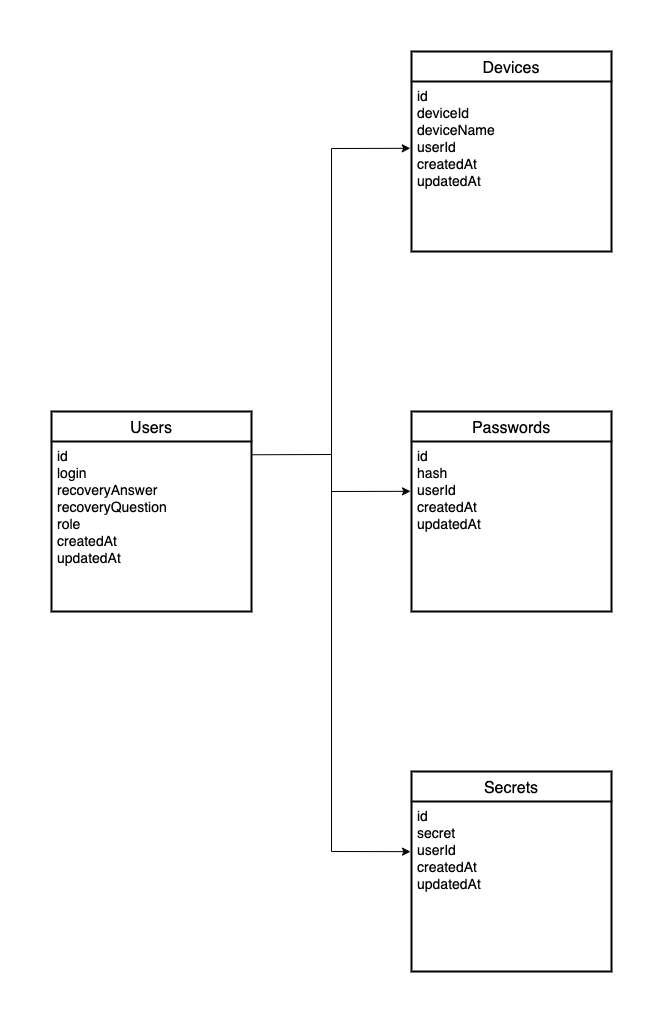
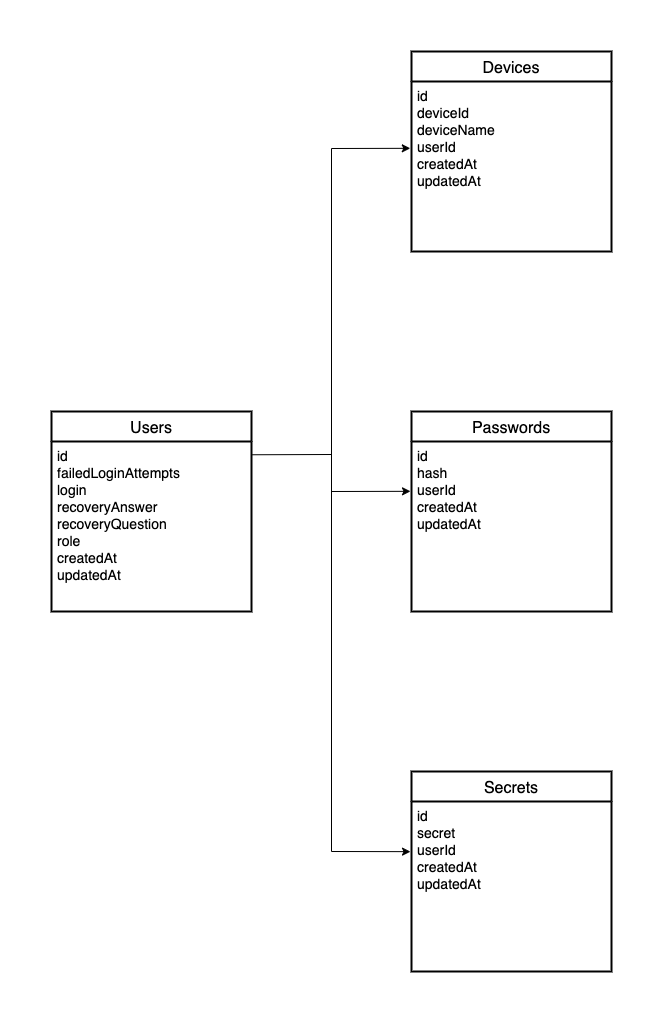
Adjust the database & migrations

Changed region(s): [[0.0906, 0.455, 0.2719, 0.5763]]

diff --git a/database/migrations/20221022192321-create-users-table.js b/database/migrations/20221022192321-create-users-table.js
@@ -14,6 +14,10 @@ module.exports = {
           defaultValue: Sequelize.fn('now'),
           type: Sequelize.DATE,
         },
+        failedLoginAttempts: {
+          defaultValue: 0,
+          type: Sequelize.INTEGER,
+        },
         id: {
           allowNull: false,
           autoIncrement: true,
@@ -25,11 +29,9 @@ module.exports = {
           type: Sequelize.STRING(32),
         },
         recoveryAnswer: {
-          field: 'recovery_answer',
           type: Sequelize.TEXT,
         },
         recoveryQuestion: {
-          field: 'recovery_question',
           type: Sequelize.TEXT,
         },
         role: {

diff --git a/database/migrations/20221022192338-create-secrets-table.js b/database/migrations/20221022192338-create-secrets-table.js
@@ -14,9 +14,6 @@ module.exports = {
           defaultValue: Sequelize.fn('now'),
           type: Sequelize.DATE,
         },
-        secret: {
-          type: Sequelize.STRING(255),
-        },
         id: {
           allowNull: false,
           autoIncrement: true,
@@ -24,8 +21,10 @@ module.exports = {
           type: Sequelize.INTEGER,
           unique: true,
         },
+        secret: {
+          type: Sequelize.STRING(255),
+        },
         userId: {
-          field: 'user_id',
           onUpdate: 'CASCADE',
           onDelete: 'CASCADE',
           references: {

diff --git a/src/database/models/Users.model.ts b/src/database/models/Users.model.ts
@@ -17,15 +17,17 @@ export const createModel = (connection: Sequelize): ModelStatic<Model> => {
   const model = connection.define(
     tableName,
     {
+      failedLoginAttempts: {
+        defaultValue: 0,
+        type: DataTypes.INTEGER,
+      },
       login: {
         type: DataTypes.STRING(MAX_LOGIN_LENGTH),
       },
       recoveryAnswer: {
-        field: 'recovery_answer',
         type: DataTypes.TEXT,
       },
       recoveryQuestion: {
-        field: 'recovery_question',
         type: DataTypes.TEXT,
       },
       role: {

diff --git a/database/migrations/20221023145408-create-devices-table.js b/database/migrations/20221023145408-create-devices-table.js
@@ -15,11 +15,9 @@ module.exports = {
           type: Sequelize.DATE,
         },
         deviceId: {
-          field: 'device_id',
           type: Sequelize.STRING(128),
         },
         deviceName: {
-          field: 'device_name',
           type: Sequelize.STRING(128),
         },
         id: {
@@ -30,7 +28,6 @@ module.exports = {
           unique: true,
         },
         userId: {
-          field: 'user_id',
           onUpdate: 'CASCADE',
           onDelete: 'CASCADE',
           references: {

diff --git a/src/database/models/devices.model.ts b/src/database/models/devices.model.ts
@@ -14,15 +14,12 @@ export const createModel = (connection: Sequelize): ModelStatic<Model> => {
     tableName,
     {
       deviceId: {
-        field: 'device_id',
         type: DataTypes.STRING(128),
       },
       deviceName: {
-        field: 'device_name',
         type: DataTypes.STRING(128),
       },
       userId: {
-        field: 'user_id',
         onUpdate: 'CASCADE',
         onDelete: 'CASCADE',
         references: {

diff --git a/src/handlers/auth/sign-in.handler.ts b/src/handlers/auth/sign-in.handler.ts
@@ -79,7 +79,11 @@ export default async function signInHandler(
       event,
       payload: {
         token,
-        user: userRecord,
+        user: {
+          id: userRecord.id,
+          login: userRecord.login,
+          role: userRecord.role,
+        },
       },
     });
   } catch (error) {

diff --git a/src/configuration/index.ts b/src/configuration/index.ts
@@ -26,10 +26,12 @@ export const {
 } = ev;
 
 export const EVENTS = {
+  COMPLETE_LOGOUT: 'complete-logout',
   CONNECTION: 'connection',
   DISCONNECT: 'disconnect',
   SIGN_IN: 'sign-in',
   SIGN_UP: 'sign-up',
+  UPDATE_PASSWORD: 'update-password',
 };
 
 export const MAX_LOGIN_LENGTH = 32;

diff --git a/src/database/models/Passwords.model.ts b/src/database/models/Passwords.model.ts
@@ -17,7 +17,6 @@ export const createModel = (connection: Sequelize): ModelStatic<Model> => {
         type: DataTypes.STRING(255),
       },
       userId: {
-        field: 'user_id',
         onUpdate: 'CASCADE',
         onDelete: 'CASCADE',
         references: {

diff --git a/src/database/models/Secrets.model.ts b/src/database/models/Secrets.model.ts
@@ -17,7 +17,6 @@ export const createModel = (connection: Sequelize): ModelStatic<Model> => {
         type: DataTypes.STRING(255),
       },
       userId: {
-        field: 'user_id',
         onUpdate: 'CASCADE',
         onDelete: 'CASCADE',
         references: {

diff --git a/database/migrations/20221022192332-create-passwords-table.js b/database/migrations/20221022192332-create-passwords-table.js
@@ -25,7 +25,6 @@ module.exports = {
           unique: true,
         },
         userId: {
-          field: 'user_id',
           onUpdate: 'CASCADE',
           onDelete: 'CASCADE',
           references: {
